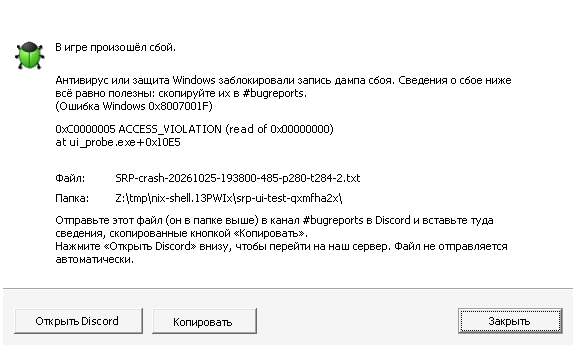
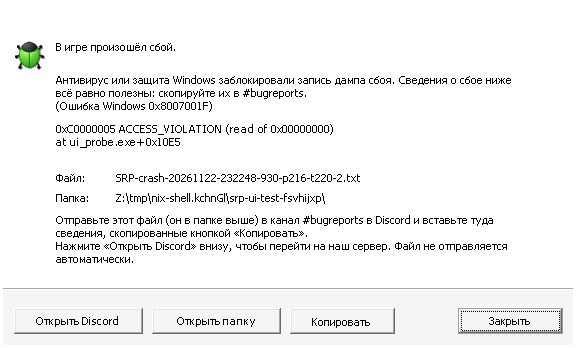
Crash reporter: dialog screenshots with Open folder
Retaken under Wine 11.8 (Xorg dummy, openbox) with the probe's synthetic
crash, as before: English, Russian, Polish, Ukrainian, the refused
capture in English and Russian, and the Cyrillic game folder.

diff --git a/client/bugtrap/README.md b/client/bugtrap/README.md
@@ -688,6 +688,13 @@ built with Nix's MinGW g++): `check_logs.py` and `check_report.py` pass,
 `check_abi.py` passes, and so do the host tests (`sanitize_tests.rs`,
 `run_name_tests.rs`); the other checks were not run again.
 
+Run on 2026-11-22 for Open folder (Linux, Wine Staging 11.8, an Xorg dummy
+display with openbox; `ui_probe.exe` built with MinGW g++): `check_abi.py` and
+`check_localization.py` (62 dialogs) pass; the other checks were not run again.
+By hand, the same `ShellExecuteW` call under Wine returned at once (33, in
+6 ms) and Wine's explorer window showed the folder `Игра-Żółw` with the ZIP
+listed (not highlighted); no Linux program was started.
+
 Run on 2026-10-21 (Linux, Wine, Xvfb), the build with the standard library
 and the C runtime linked in, the C++ probes built with `clang-cl` against the
 same Microsoft libraries: `check_abi.py` passes (the 82 ordinals; `_fltused`,
